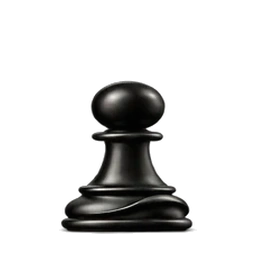
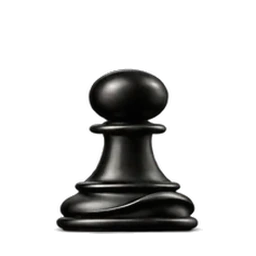
Gör bönderna 8 procent större med bevarad baslinje

Changed region(s): [[0.2188, 0.25, 0.7812, 0.9062]]

diff --git a/src/styles.css b/src/styles.css
@@ -217,7 +217,7 @@ body { background: var(--gradient-scene); background-attachment: fixed; min-heig
 .piece-slot[data-piece-type="b"] { --piece-base-width: 55%; }
 .piece-slot[data-piece-type="n"] { --piece-base-width: 57%; }
 .piece-slot[data-piece-type="r"] { --piece-base-width: 56%; }
-.piece-slot[data-piece-type="p"] { --piece-base-width: 49%; }
+.piece-slot[data-piece-type="p"] { --piece-base-width: 53%; }
 .piece-slot::before { content: ""; position: absolute; left: 50%; bottom: 5.5%; width: var(--piece-base-width); height: 6.5%; transform: translateX(-50%); background: var(--piece-contact); pointer-events: none; }
 .piece-img { display: block; object-fit: contain; user-select: none; -webkit-user-drag: none; filter: drop-shadow(0 2px 1.5px oklch(0 0 0 / 50%)); }
 .piece-slot .piece-img { position: relative; width: 100%; height: 100%; object-fit: contain; filter: var(--piece-shadow); }
